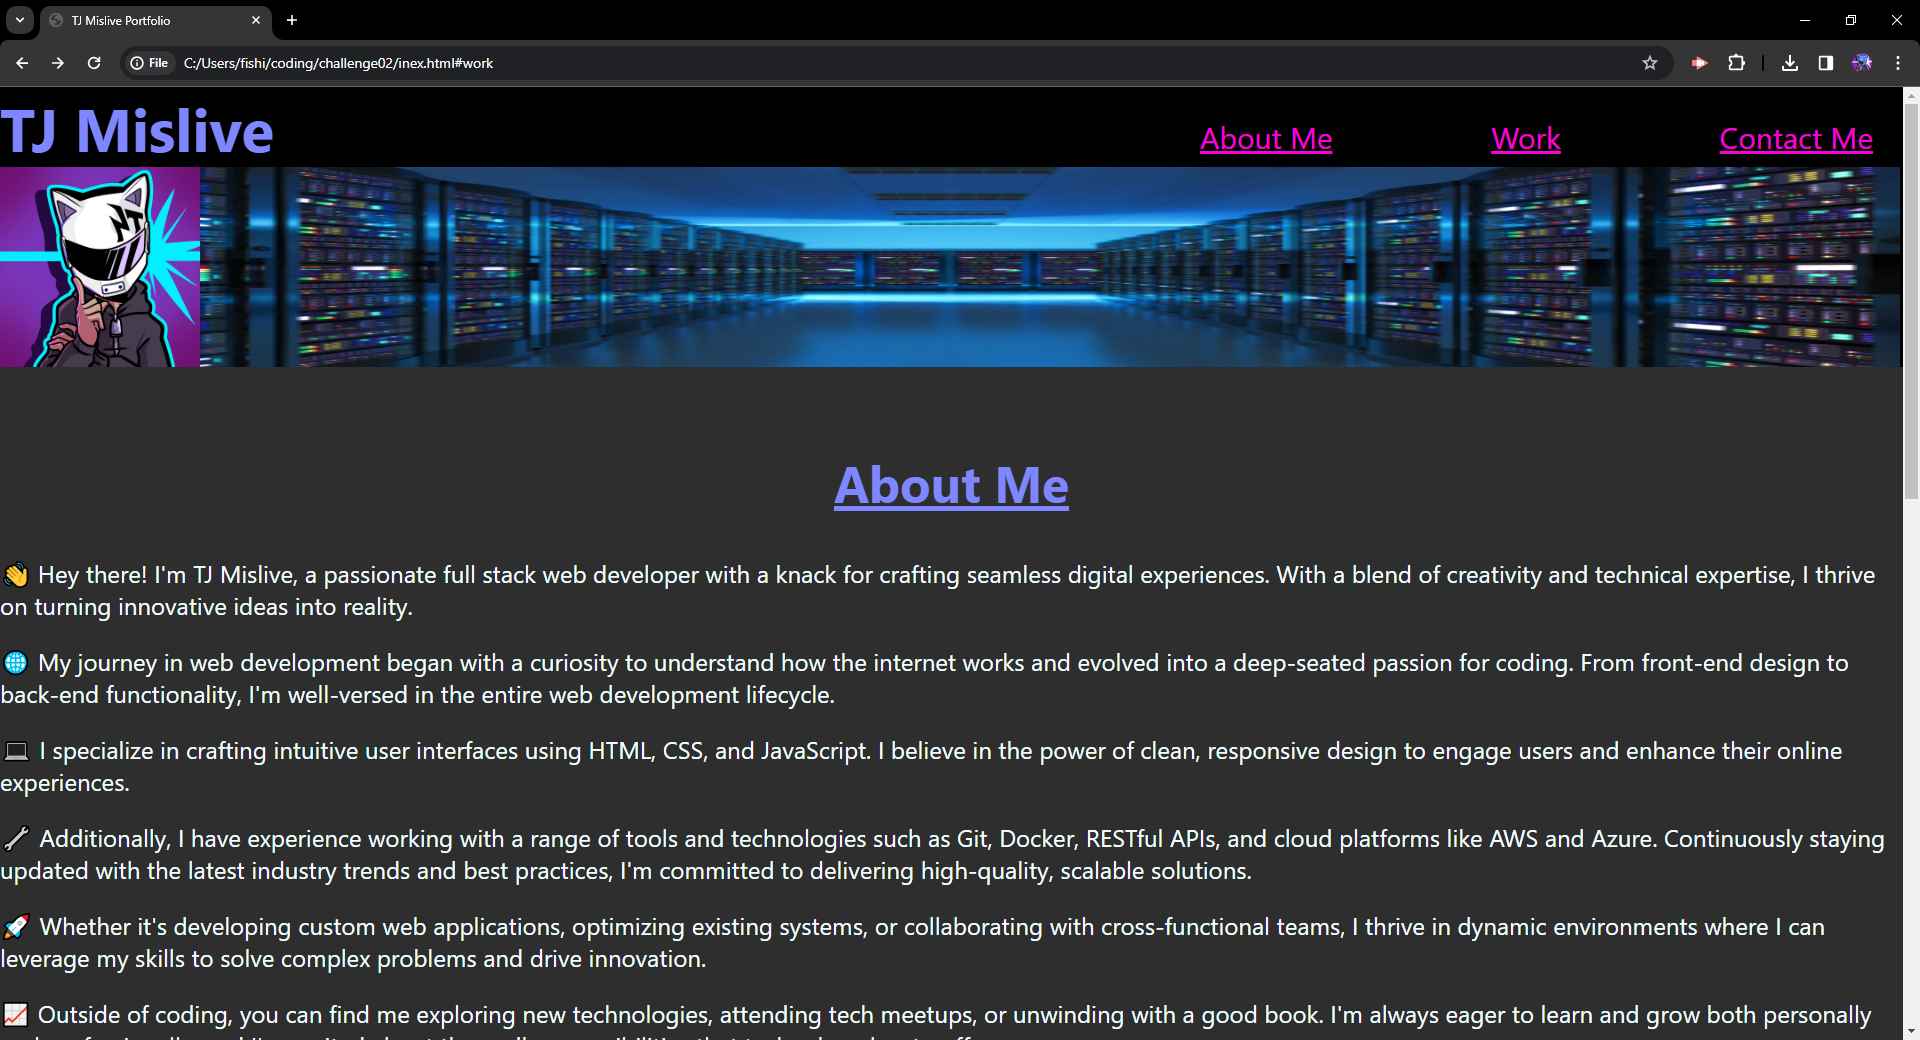
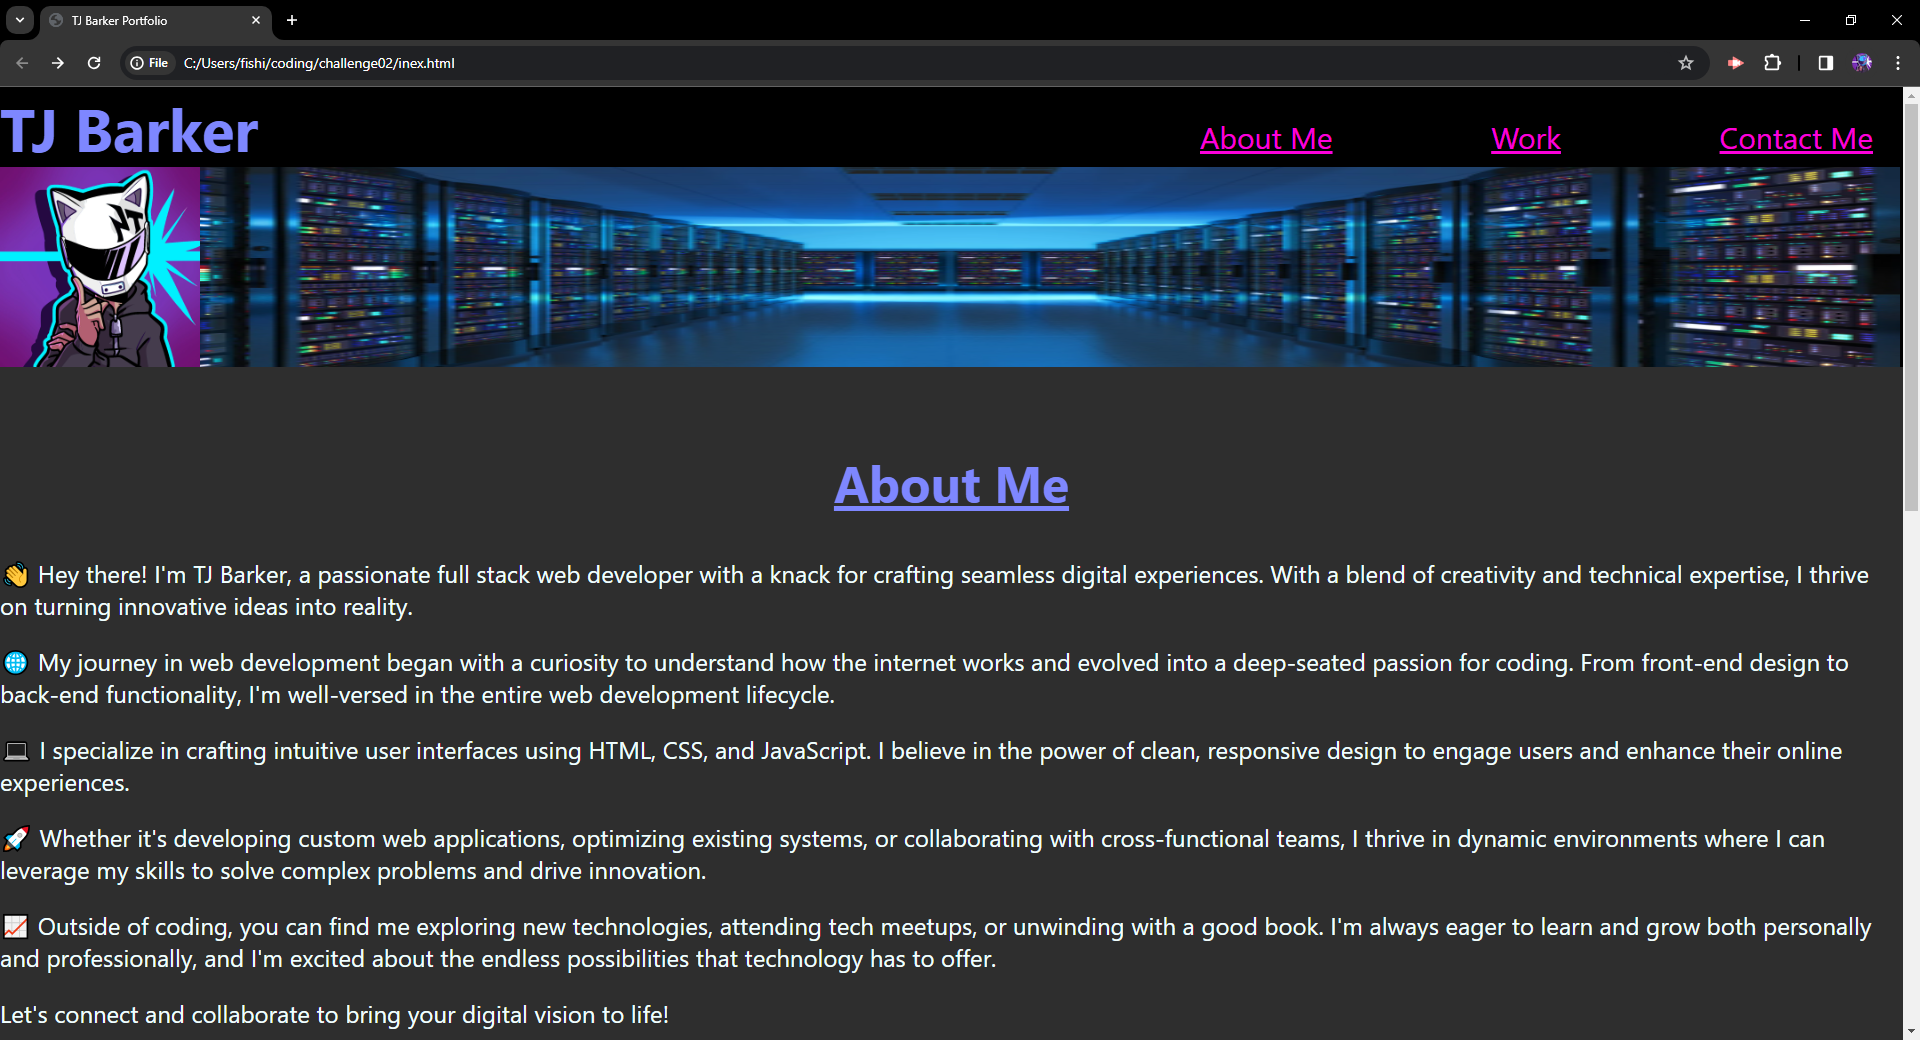
minor changes to html

diff --git a/inex.html b/inex.html
@@ -3,12 +3,12 @@
 <head>
     <meta charset="UTF-8">
     <meta name="viewport" content="width=device-width, initial-scale=1.0">
-    <title>TJ Mislive Portfolio</title>
+    <title>TJ Barker Portfolio</title>
     <link rel="stylesheet" href="./assets/style.css">
 </head>
 <body>
     <header>
-        <h1>TJ Mislive</h1> 
+        <h1>TJ Barker</h1> 
         <section id="serverImage">
             <img src="./assets/servers2.webp" alt="servers" width="1900px" height = "200px">
         </section>
@@ -27,13 +27,11 @@
         <section class="AboutAndWork">
             <h2 id = aboutScroll>About Me</h2>
                 <section id="aboutme">
-                    <p>👋 Hey there! I'm TJ Mislive, a passionate full stack web developer with a knack for crafting seamless digital experiences. With a blend of creativity and technical expertise, I thrive on turning innovative ideas into reality.</p>
+                    <p>👋 Hey there! I'm TJ Barker, a passionate full stack web developer with a knack for crafting seamless digital experiences. With a blend of creativity and technical expertise, I thrive on turning innovative ideas into reality.</p>
 
                     <p>🌐 My journey in web development began with a curiosity to understand how the internet works and evolved into a deep-seated passion for coding. From front-end design to back-end functionality, I'm well-versed in the entire web development lifecycle.</p>
                     
                     <p>💻 I specialize in crafting intuitive user interfaces using HTML, CSS, and JavaScript. I believe in the power of clean, responsive design to engage users and enhance their online experiences.</p>
-                    
-                    <p>🔧 Additionally, I have experience working with a range of tools and technologies such as Git, Docker, RESTful APIs, and cloud platforms like AWS and Azure. Continuously staying updated with the latest industry trends and best practices, I'm committed to delivering high-quality, scalable solutions.</p>
                     
                     <p>🚀 Whether it's developing custom web applications, optimizing existing systems, or collaborating with cross-functional teams, I thrive in dynamic environments where I can leverage my skills to solve complex problems and drive innovation.</p>
                     

diff --git a/assets/style.css b/assets/style.css
@@ -208,6 +208,3 @@ opacity: 100%;
     opacity: 100%;
 }
 
-
-
-
